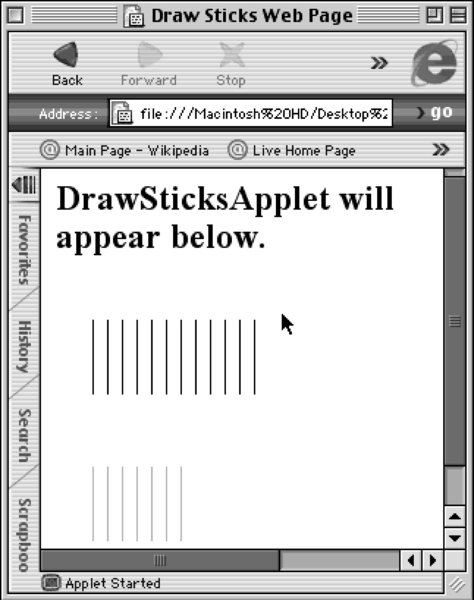
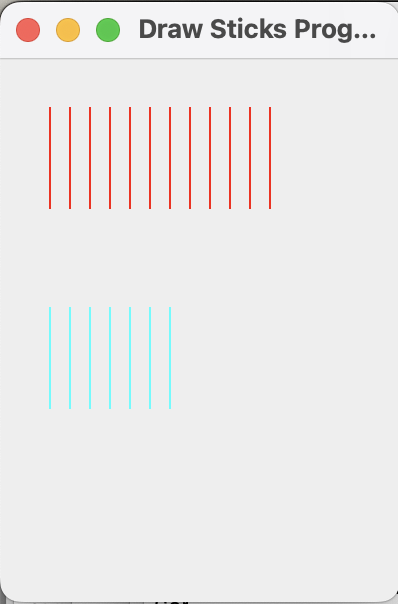
updated draw sticks example to use ActiveCode

diff --git a/classroom-resources/java-sourcecode/ch3/drawsticks/DrawSticksCanvas.java b/classroom-resources/java-sourcecode/ch3/drawsticks/DrawSticksCanvas.java
@@ -1,7 +1,7 @@
 /*
- * File: DrawSticksApplet.java
+ * File: DrawSticksCanvas.java
  * Author: Java Java Java
- * Description: This applet uses Java's built-in 
+ * Description: This uses Java's built-in 
  *  drawing methods to draw vertical lines on its window.
  *  It draws a set of 12 vertical lines and a set of 7 lines.
  */
@@ -26,7 +26,9 @@ public class DrawSticksCanvas extends Canvas
     } // drawSticks()
 
     public void paint(Graphics g)
-    {   drawSticks(g, 25, 25, 12);
+    {
+	g.setColor(Color.red);
+	drawSticks(g, 25, 25, 12);
         g.setColor(Color.cyan);
         drawSticks(g, 25, 125, 7);
     } // paint()
@@ -36,7 +38,7 @@ public class DrawSticksCanvas extends Canvas
         DrawSticksCanvas c = new DrawSticksCanvas();
         JFrame f = new JFrame("Draw Sticks Program");
         f.add(c);
-        f.setSize(200,200);
+        f.setSize(200,300);
         f.setVisible(true);
     }
 
